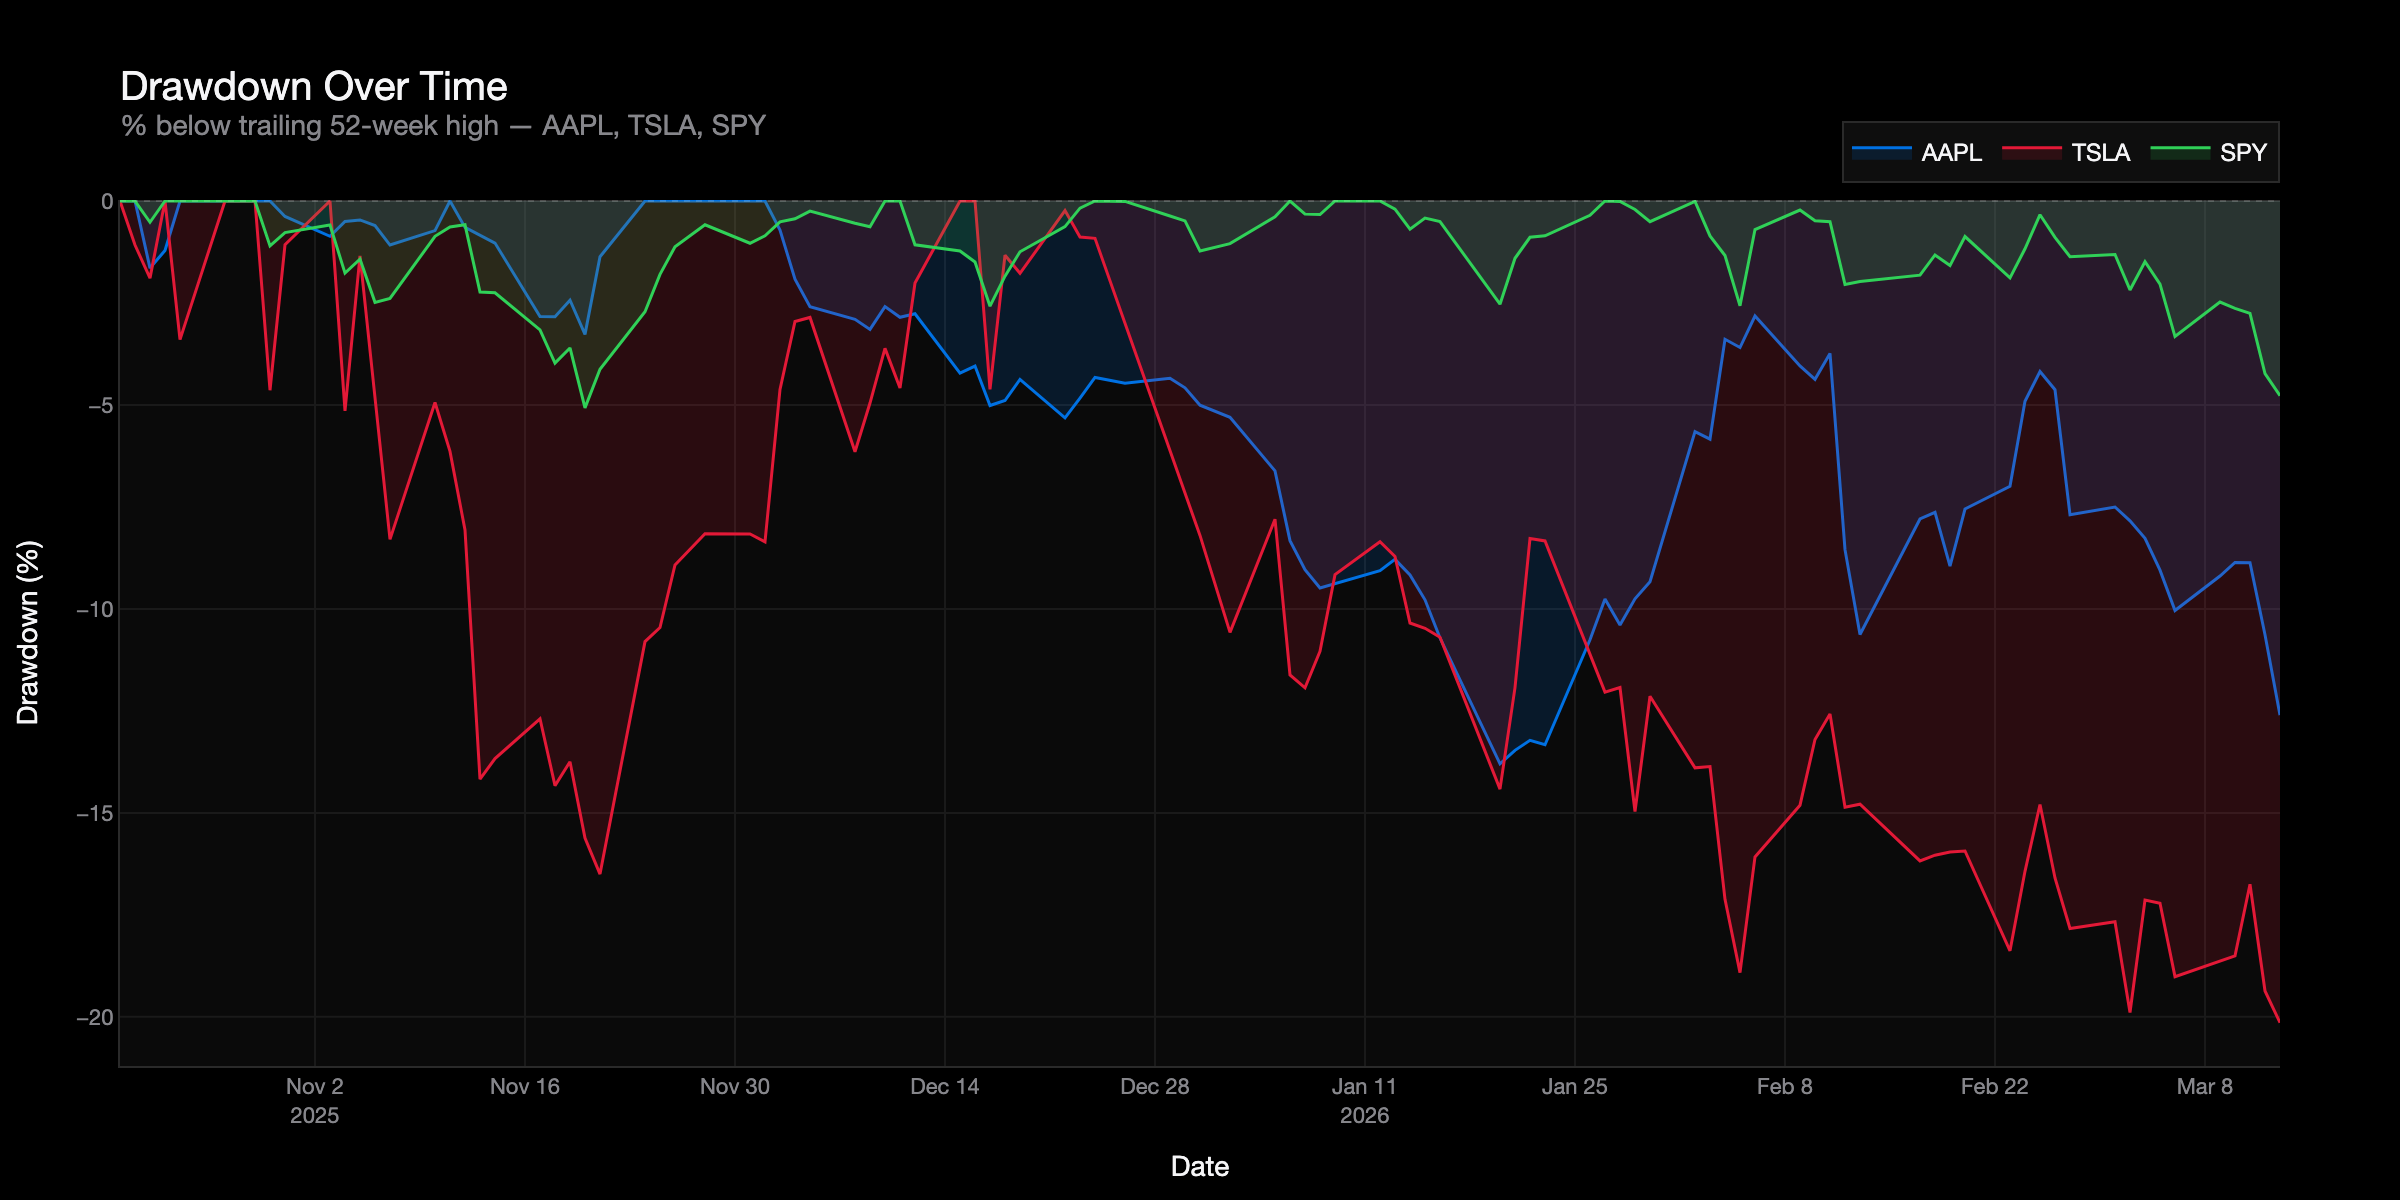
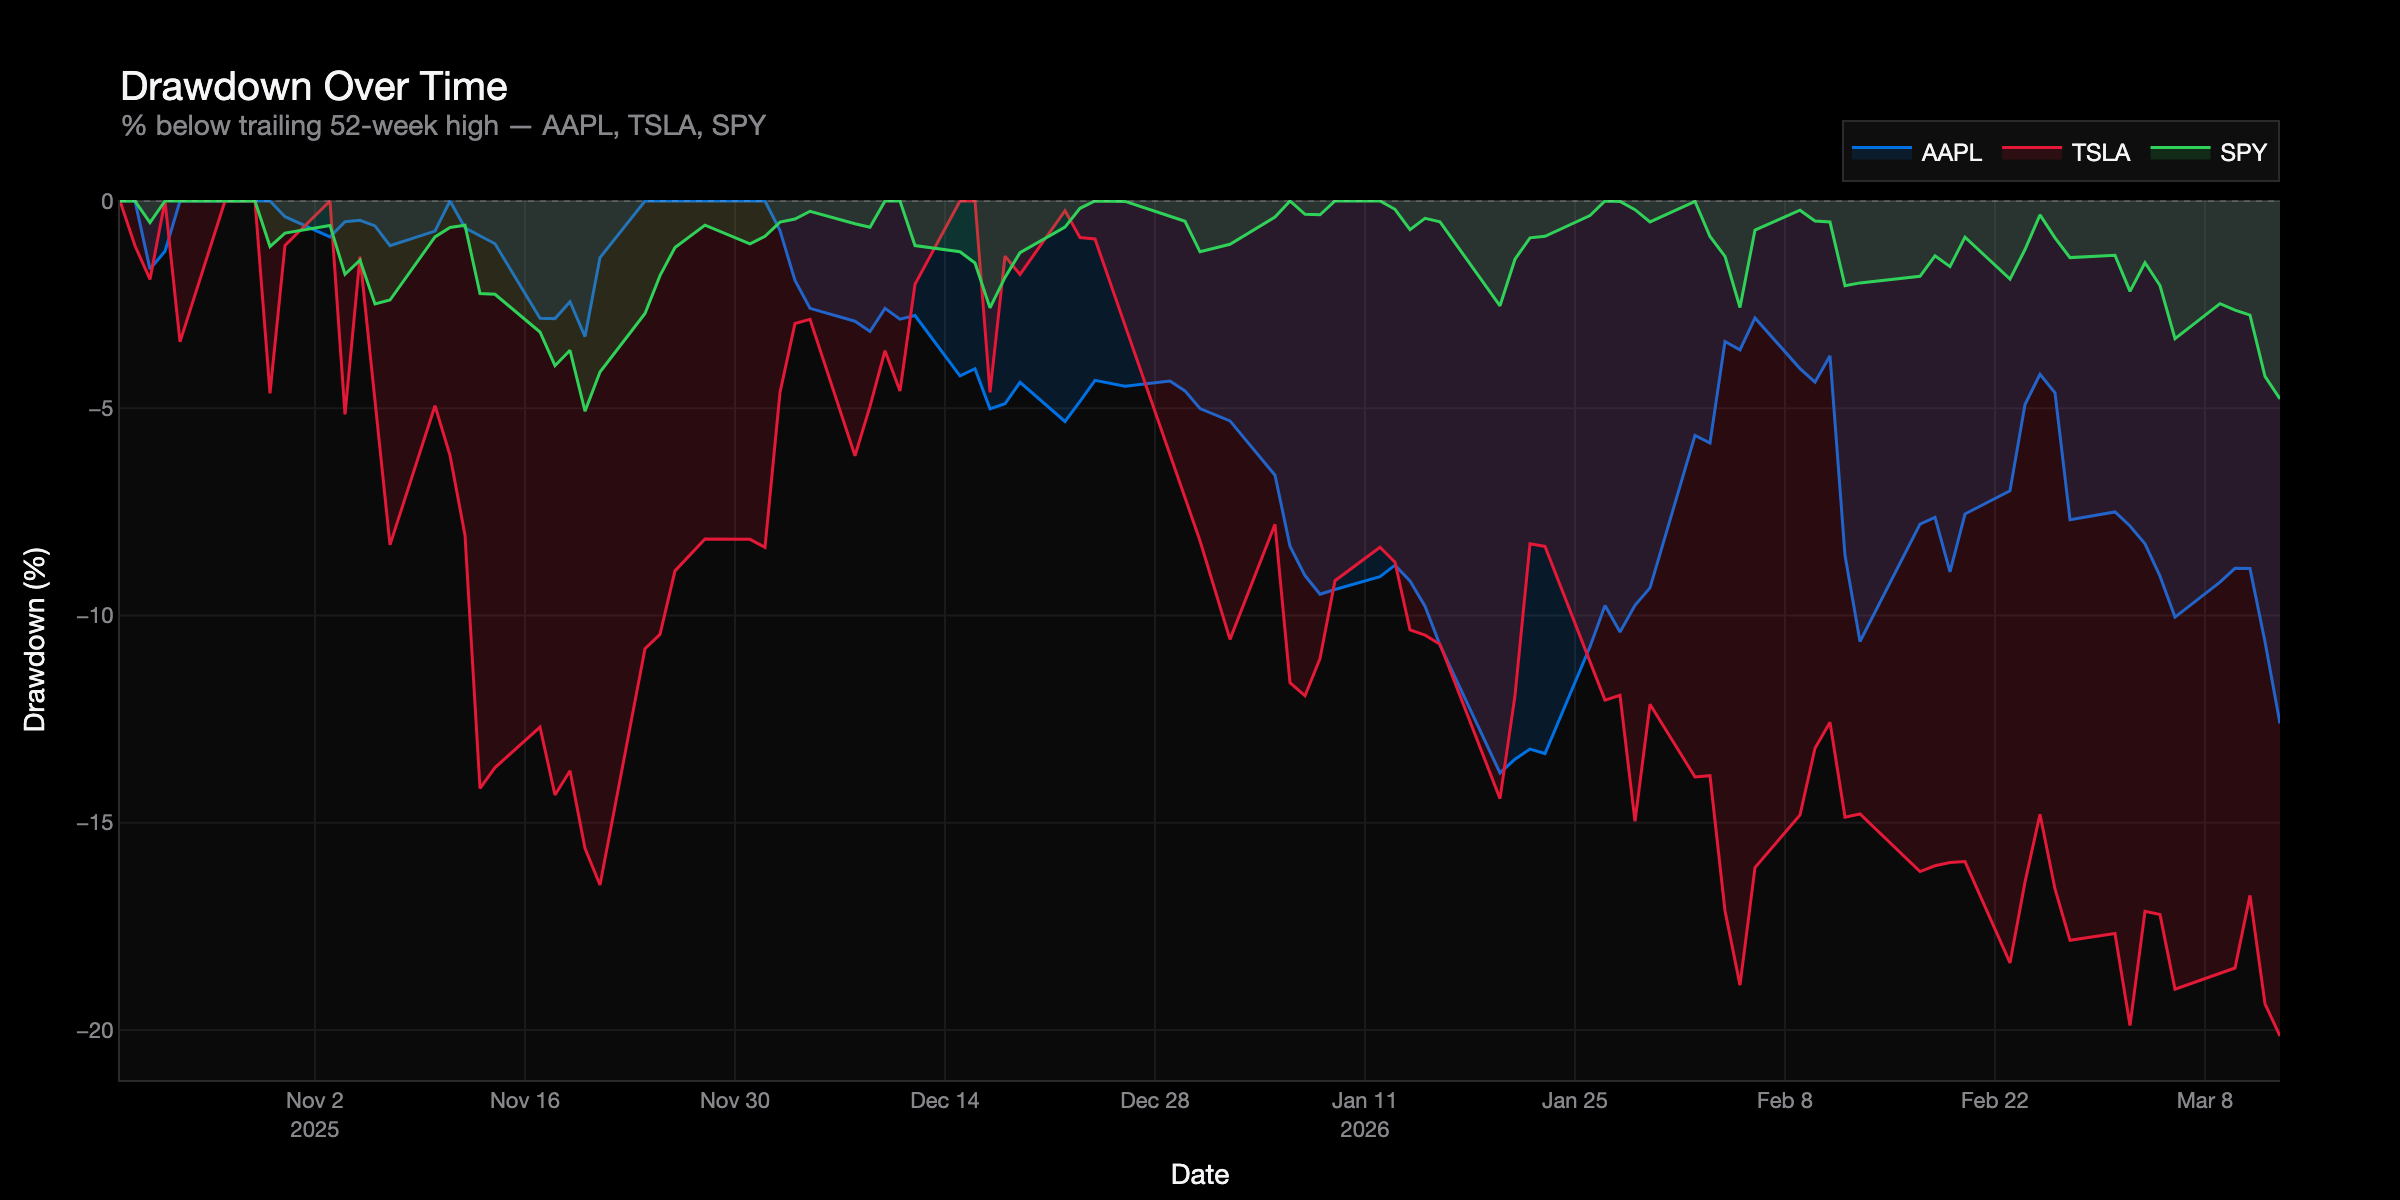
fix: force pure black background on Tile 3 drawdown chart
Added template=none and explicit bgcolor values to build_drawdown_figure
to prevent Plotly default template from leaking grey into the PNG export.

diff --git a/dashboard/generate_dashboard.py b/dashboard/generate_dashboard.py
@@ -545,8 +545,9 @@ def build_drawdown_figure(df: pd.DataFrame) -> go.Figure:
     )
 
     fig.update_layout(
-        paper_bgcolor=COLOR["paper"],
-        plot_bgcolor=COLOR["bg"],
+        template="none",
+        paper_bgcolor="#000000",
+        plot_bgcolor="#0a0a0a",
         font=dict(family=FONT_FMLY, color=COLOR["text"]),
         title=dict(
             text=(
